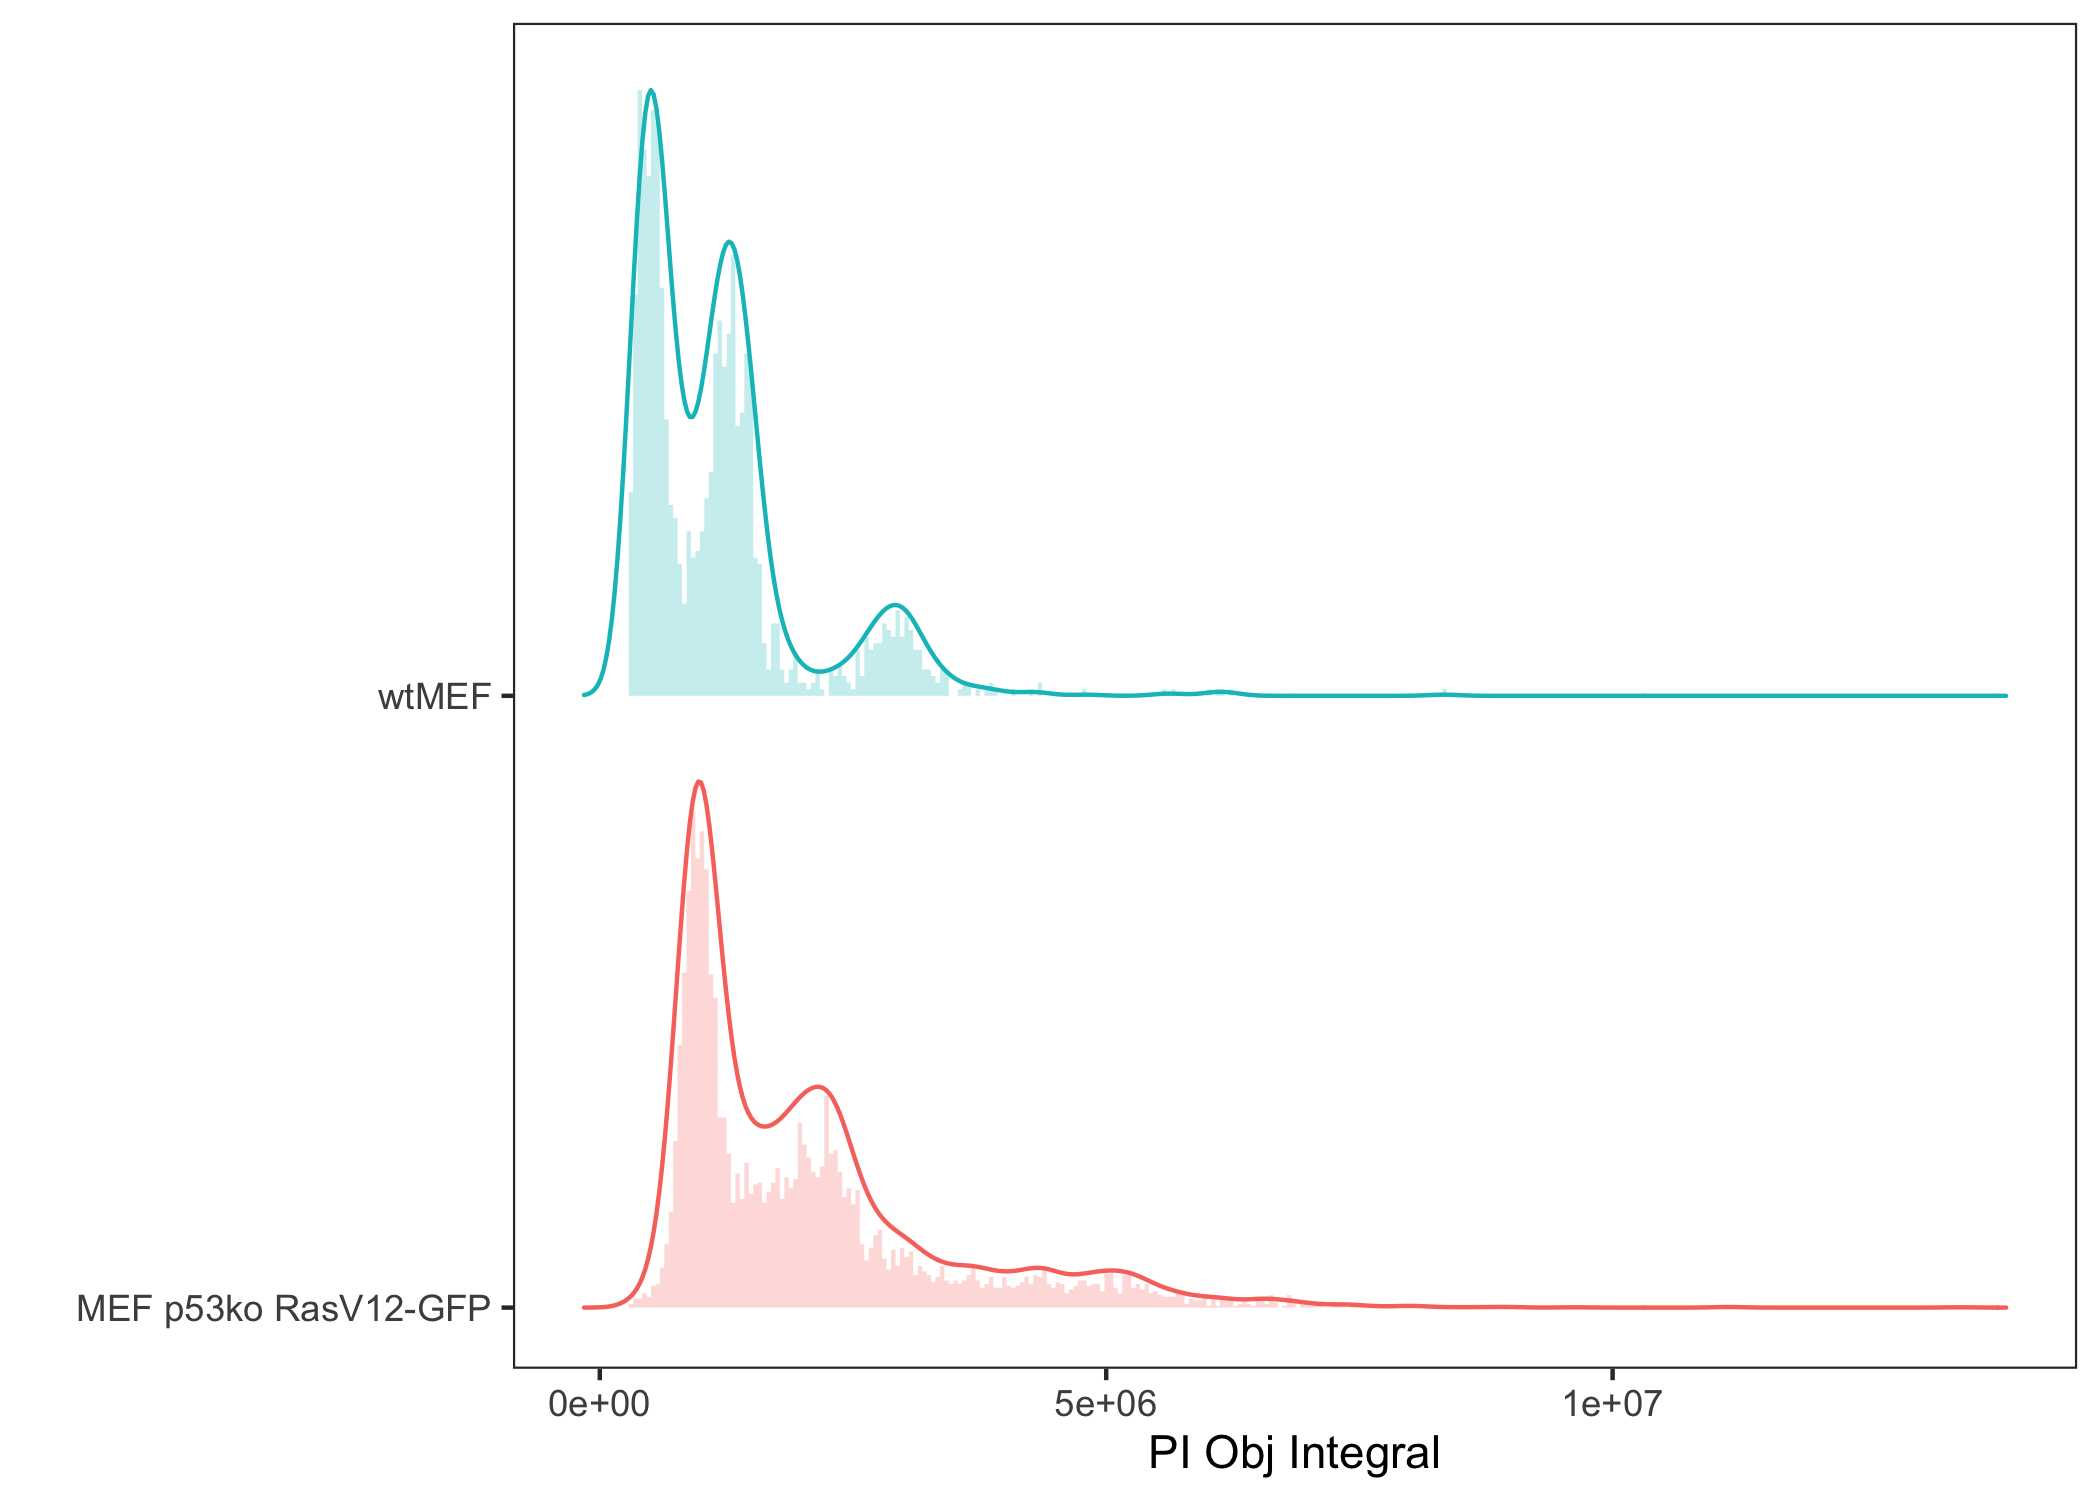
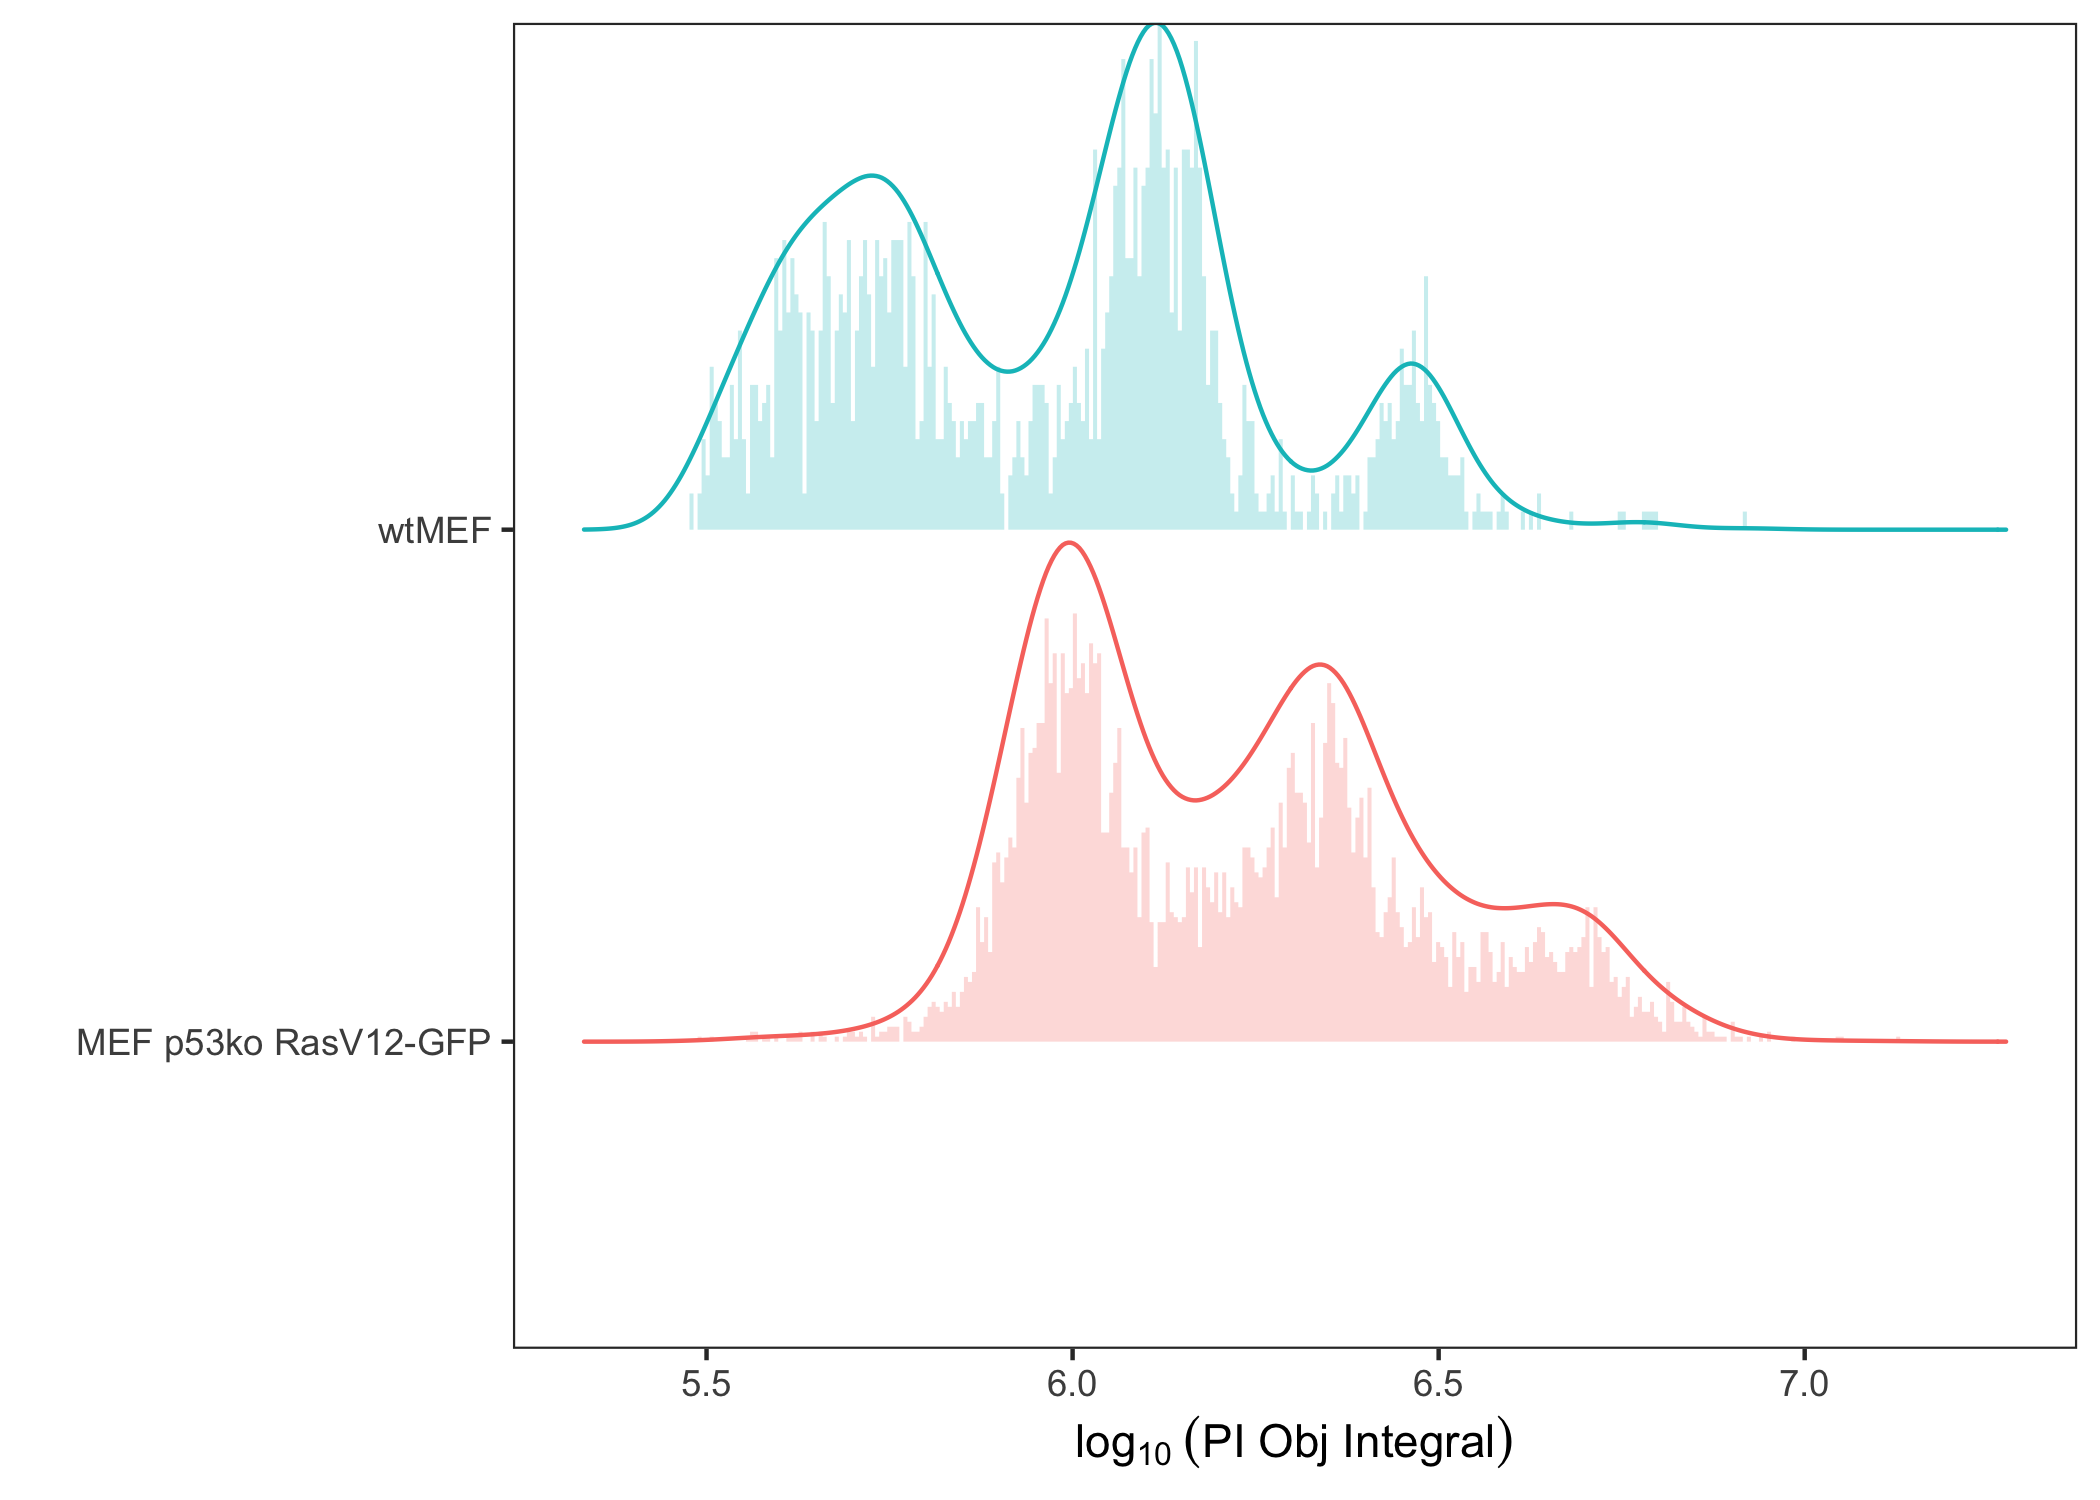
Fix peak calling by extracting density data directly from ggplot2 call. Pre-calculate log10 transformation to fix offset labeling on plots.

diff --git a/README.md b/README.md
@@ -40,9 +40,6 @@ library(cellphaseR)
 #>   method                  from   
 #>   heightDetails.titleGrob ggplot2
 #>   widthDetails.titleGrob  ggplot2
-```
-
-``` r
 
 ## View the example dataset
 PIdata
@@ -65,14 +62,14 @@ PIdata
 
 ## Visualizing Cell Cycle Data
 
-The `cpridges` function generates a histogram with kernel density
-estimate overlay for your DNA content data. Here we use the
-`PI Obj Integral` output value from the example `PIdata` to plot cell
-cycle data by each cell type (`group = Cells`)
+The `cpridges` function generates a log<sub>10</sub> histogram with
+kernel density estimate overlay for your DNA content data. Here we use
+the `PI Obj Integral` output value from the example `PIdata` to plot
+cell cycle data by each cell type (`group = Cells`)
 
 ``` r
 cpridges(data = PIdata, signal = `PI Obj Integral`, group = Cells)
-#> Picking joint bandwidth of 152000
+#> Picking joint bandwidth of 0.049
 ```
 
 <img src="man/figures/README-cpridges_base_example-1.png" width="80%" />
@@ -81,20 +78,16 @@ cpridges(data = PIdata, signal = `PI Obj Integral`, group = Cells)
 
 The position of peaks can be labeled using the `label.peaks` argument of
 `cpridges` and refined using the `peak.threshold` argument. Arguments
-are also available to adjust histogram bins or log<sub>10</sub>
-transform the x-axis. Additional ggplot2 functions can be appended to
-`cpridges` for customization of plots.
+are also available to adjust histogram bins. Additional ggplot2
+functions can be appended to `cpridges` for customization of plots.
 
 ``` r
 cpridges(data = PIdata, signal = `PI Obj Integral`, group = Cells,
          label.peaks = TRUE, peak.threshold = 0) + ggplot2::labs(title = "Peak threshold = 0.0")
-#> Picking joint bandwidth of 152000
-```
-
-``` r
+#> Picking joint bandwidth of 0.049
 cpridges(data = PIdata, signal = `PI Obj Integral`, group = Cells,
          label.peaks = TRUE, peak.threshold = 0.1) + ggplot2::labs(title = "Peak threshold = 0.1")
-#> Picking joint bandwidth of 152000
+#> Picking joint bandwidth of 0.049
 ```
 
 <img src="man/figures/README-cpridges_options_example-1.png" width="50%" /><img src="man/figures/README-cpridges_options_example-2.png" width="50%" />
